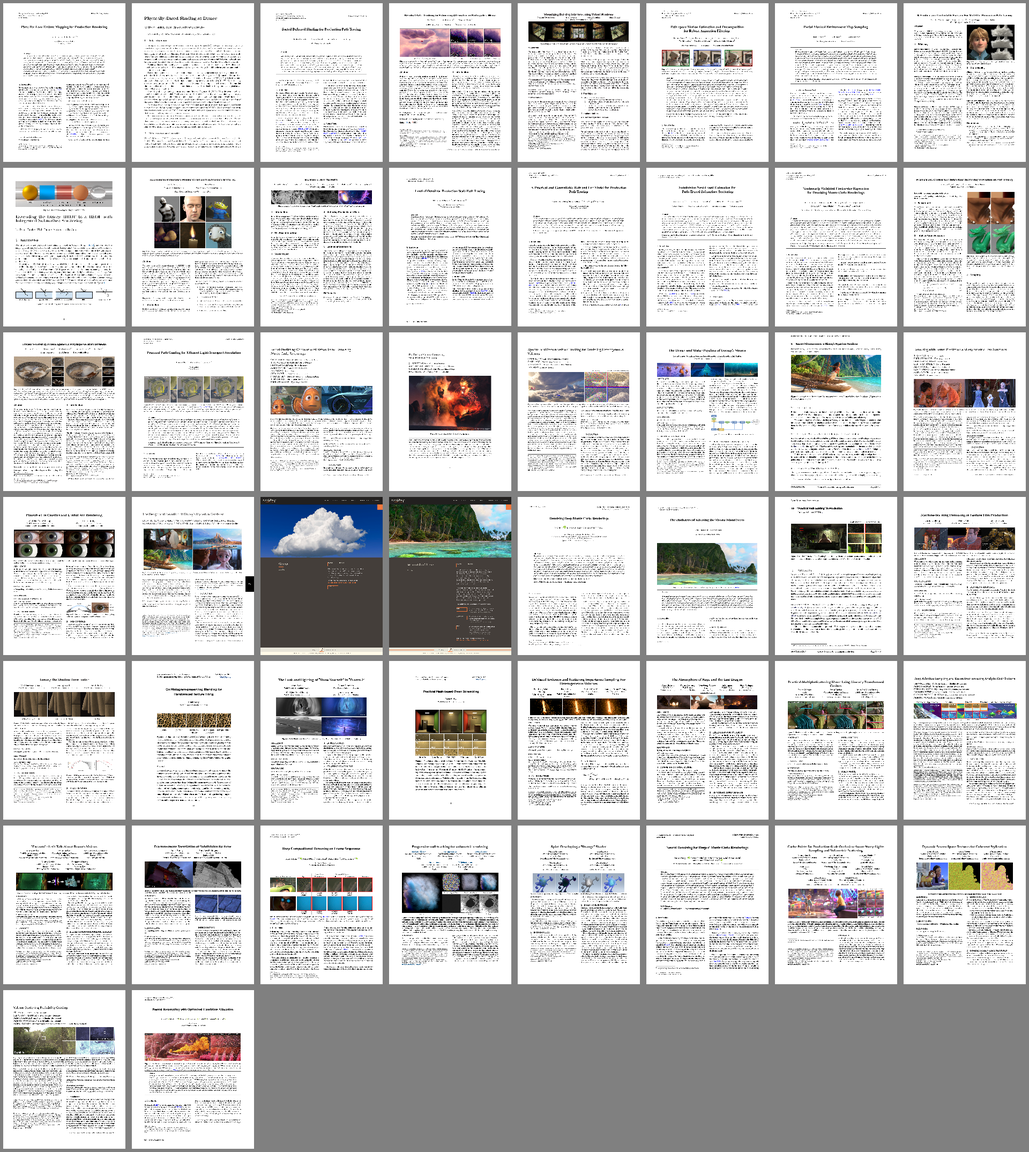
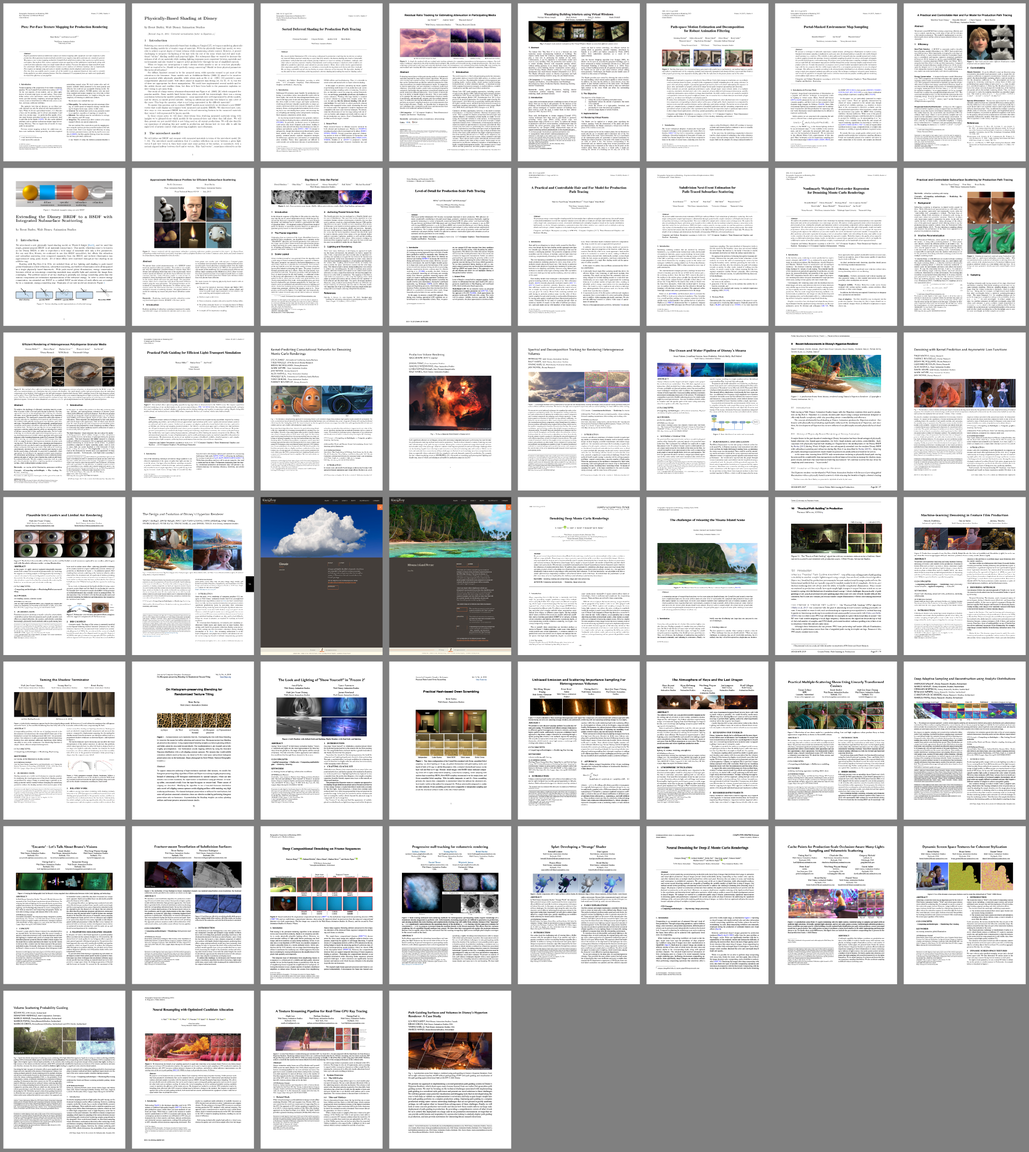
Update Hyperion Papers post with SIGGRAPH 2025 publications

diff --git a/_posts/2019-07-30-hyperion-papers.md b/_posts/2019-07-30-hyperion-papers.md
@@ -7,18 +7,18 @@ author: Yining Karl Li
 Every year at SIGGRAPH (and sometimes at other points in the year), members of the Hyperion team inevitably get asked if there is any publicly available information about [Disney's Hyperion Renderer](https://www.disneyanimation.com/technology/hyperion/).
 The answer is: yes, there is actually a lot of publicly available information!
 
-[![Figure 1: Previews of the first page of every Hyperion-related publication from Disney Animation, Disney Research Studios, and other research partners.]({{site.url}}/content/images/2019/Jul/FirstPagesv7_prev.png)]({{site.url}}/content/images/2019/Jul/FirstPagesv7.png)
+[![Figure 1: Previews of the first page of every Hyperion-related publication from Disney Animation, DisneyResearch\|Studios, and other research partners.]({{site.url}}/content/images/2019/Jul/FirstPagesv7_prev.png)]({{site.url}}/content/images/2019/Jul/FirstPagesv7.png)
 
 One amazing aspect of working at Walt Disney Animation Studios is the huge amount of support and encouragement we get from our managers and the wider studio for publishing and sharing our work with the wider academic world and industry.
 As part of this sharing, the Hyperion team has had the opportunity to publish a number of papers over the years detailing various interesting techniques used in the renderer.
 
-I think it's very important to mention here that another one of my favorite aspects of working on the Hyperion team is the deep collaboration we get to engage in with our sister rendering team at [Disney Research Studios](https://studios.disneyresearch.com) (formerly known as Disney Research Zürich).
-The vast majority of the Hyperion team's publications are joint works with Disney Research Studios, and I personally think it's fair to say that all of Hyperion's most interesting advanced features are just as much the result of research and work from Disney Research Studios as they are the result of our team's own work.
-Without a doubt, Hyperion, and by extension, our movies, would not be what they are today without Disney Research Studios.
+I think it's very important to mention here that another one of my favorite aspects of working on the Hyperion team is the deep collaboration we get to engage in with our sister rendering team at [DisneyResearch\|Studios](https://studios.disneyresearch.com) (formerly known as Disney Research Zürich).
+The vast majority of the Hyperion team's publications are joint works with DisneyResearch\|Studios, and I personally think it's fair to say that all of Hyperion's most interesting advanced features are just as much the result of research and work from DisneyResearch\|Studios as they are the result of our team's own work.
+Without a doubt, Hyperion, and by extension, our movies, would not be what they are today without DisneyResearch\|Studios.
 Of course, we also collaborate closely with our sister rendering teams at [Pixar Animation Studios](https://www.pixar.com) and [Industrial Light & Magic](https://www.ilm.com) as well, and there are numerous examples where collaboration between all of these teams has advanced the state of the art in rendering for the whole industry.
 
-So without further ado, below are all of the papers that the Hyperion team has published or worked on or had involvement with over the years, either by ourselves or with our counterparts at Disney Research Studios, Pixar, ILM, and other research groups.
-If you've ever been curious to learn more about Disney's Hyperion Renderer, here are 50 publications with a combined 529 pages of material!
+So without further ado, below are all of the papers that the Hyperion team has published or worked on or had involvement with over the years, either by ourselves or with our counterparts at DisneyResearch\|Studios, Pixar, ILM, and other research groups.
+If you've ever been curious to learn more about Disney's Hyperion Renderer, here are 52 publications with a combined 571 pages of material!
 For each paper, I'll link to a preprint version, link to the official publisher's version, and link any additional relevant resources for the paper.
 Please see publisher's version or project page links for any additional supplemental materials that go with each paper.
 I'll also give the citation information, give a brief description, list the teams involved, and note how the paper is relevant to Hyperion.
@@ -61,7 +61,7 @@ This post is meant to be a living document; I'll come back and update it down th
     * [Official Publisher's Version](https://doi.org/10.1145/2661229.2661292)
     * [Project Page](http://drz.disneyresearch.com/~jnovak/publications/RRTracking/)
 
-    Joint project between Disney Research Studios and Disney Animation. This paper described a pair of new, complementary techniques for evaluating transmittance in heterogeneous volumes. These two techniques made up the core of Hyperion's first and second generation volume rendering implementations, used from *Big Hero 6* up through *Moana*.
+    Joint project between DisneyResearch\|Studios and Disney Animation. This paper described a pair of new, complementary techniques for evaluating transmittance in heterogeneous volumes. These two techniques made up the core of Hyperion's first and second generation volume rendering implementations, used from *Big Hero 6* up through *Moana*.
 
 5. **Visualizing Building Interiors using Virtual Windows**
 
@@ -80,7 +80,7 @@ This post is meant to be a living document; I'll come back and update it down th
     * [Official Publisher's Version](http://doi.org/10.1111/cgf.12685)
     * [Project Page](https://cs.dartmouth.edu/~wjarosz/publications/zimmer15path.html)
 
-    Joint project between Disney Research Studios, ETH Zürich, and Disney Animation. This paper describes a denoising technique suitable for animated sequences. Not directly used in Hyperion's denoiser, but both inspired by and influential towards Hyperion's first generation denoiser.
+    Joint project between DisneyResearch\|Studios, ETH Zürich, and Disney Animation. This paper describes a denoising technique suitable for animated sequences. Not directly used in Hyperion's denoiser, but both inspired by and influential towards Hyperion's first generation denoiser.
 
 7. **Portal-Masked Environment Map Sampling**
 
@@ -90,7 +90,7 @@ This post is meant to be a living document; I'll come back and update it down th
     * [Official Publisher's Version](http://doi.org/10.1111/cgf.12674)
     * [Project Page](https://benedikt-bitterli.me/pmems.html)
 
-    Joint project between Disney Research Studios and Disney Animation. This paper describes an efficient method for importance sampling environment maps. This paper was actually derived from the technique Hyperion uses for importance sampling lights with IES profiles, which has been used on all films rendered using Hyperion.
+    Joint project between DisneyResearch\|Studios and Disney Animation. This paper describes an efficient method for importance sampling environment maps. This paper was actually derived from the technique Hyperion uses for importance sampling lights with IES profiles, which has been used on all films rendered using Hyperion.
 
 8. **A Practical and Controllable Hair and Fur Model for Production Path Tracing**
 
@@ -99,7 +99,7 @@ This post is meant to be a living document; I'll come back and update it down th
     * [Preprint Version](https://drive.google.com/open?id=19k6mnZMJXmgDSwy1Hcb7fFdMstALjTto)
     * [Official Publisher's Version](http://doi.org/10.1145/2775280.2792559)
 
-    Joint project between Disney Research Studios and Disney Animation. This short paper gives an overview of Hyperion's fur and hair model, originally developed for use on Zootopia. A full paper was published later with more details. This fur/hair model is Hyperion's fur/hair model today, used on every film beginning with *Zootopia* to present.
+    Joint project between DisneyResearch\|Studios and Disney Animation. This short paper gives an overview of Hyperion's fur and hair model, originally developed for use on Zootopia. A full paper was published later with more details. This fur/hair model is Hyperion's fur/hair model today, used on every film beginning with *Zootopia* to present.
 
 9. **Extending the Disney BRDF to a BSDF with Integrated Subsurface Scattering**
 
@@ -148,7 +148,7 @@ This post is meant to be a living document; I'll come back and update it down th
     * [Project Page](https://benedikt-bitterli.me/pchfm/)
     * [Implementation Guide by Matt Pharr](https://www.pbrt.org/hair.pdf)
 
-    Joint project between Disney Research Studios and Disney Animation. This paper gives an overview of Hyperion's fur and hair model, originally developed for use on *Zootopia*. This fur/hair model is Hyperion's fur/hair model today, used on every film beginning with *Zootopia* to present. This paper is now also implemented in the open source [PBRT v3](https://github.com/mmp/pbrt-v3/blob/master/src/materials/hair.h) renderer, and also serves as the basis of the hair/fur shader in Chaos Group's [V-Ray Next](https://www.chaosgroup.com/blog/v-ray-next-the-science-behind-the-new-hair-shader) renderer.
+    Joint project between DisneyResearch\|Studios and Disney Animation. This paper gives an overview of Hyperion's fur and hair model, originally developed for use on *Zootopia*. This fur/hair model is Hyperion's fur/hair model today, used on every film beginning with *Zootopia* to present. This paper is now also implemented in the open source [PBRT v3](https://github.com/mmp/pbrt-v3/blob/master/src/materials/hair.h) renderer, and also serves as the basis of the hair/fur shader in Chaos Group's [V-Ray Next](https://www.chaosgroup.com/blog/v-ray-next-the-science-behind-the-new-hair-shader) renderer.
 
 14. **Subdivision Next-Event Estimation for Path-Traced Subsurface Scattering**
 
@@ -158,7 +158,7 @@ This post is meant to be a living document; I'll come back and update it down th
     * [Official Publisher's Version](https://doi.org/10.2312/sre.20161214)
     * [Project Page](http://drz.disneyresearch.com/~jnovak/publications/SNEE/index.html)
 
-    Joint project between Disney Research Studios, University of Stuttgart, Dartmouth College, and Disney Animation. This paper describes a method for accelerating brute force path traced subsurface scattering; this technique was developed during early experimentation in making path traced subsurface scattering practical for production in Hyperion.
+    Joint project between DisneyResearch\|Studios, University of Stuttgart, Dartmouth College, and Disney Animation. This paper describes a method for accelerating brute force path traced subsurface scattering; this technique was developed during early experimentation in making path traced subsurface scattering practical for production in Hyperion.
 
 15. **Nonlinearly Weighted First-Order Regression for Denoising Monte Carlo Renderings**
 
@@ -168,7 +168,7 @@ This post is meant to be a living document; I'll come back and update it down th
     * [Official Publisher's Version](https://doi.org/10.1111/cgf.12954)
     * [Project Page](https://benedikt-bitterli.me/nfor/)
 
-    Joint project between Disney Research Studios, Edinburgh Napier University, Dartmouth College, and Disney Animation. This paper describes a high-quality, stable denoising technique based on a thorough analysis of previous technique. This technique was developed during a larger project to develop a state-of-the-art successor to Hyperion's first generation denoiser.
+    Joint project between DisneyResearch\|Studios, Edinburgh Napier University, Dartmouth College, and Disney Animation. This paper describes a high-quality, stable denoising technique based on a thorough analysis of previous technique. This technique was developed during a larger project to develop a state-of-the-art successor to Hyperion's first generation denoiser.
 
 16. **Practical and Controllable Subsurface Scattering for Production Path Tracing**
 
@@ -187,7 +187,7 @@ This post is meant to be a living document; I'll come back and update it down th
     * [Official Publisher's Version](https://doi.org/10.1145/2980179.2982429)
     * [Project Page](https://cs.dartmouth.edu/~wjarosz/publications/muller16efficient.html)
 
-    External project from Disney Research Studios, ETH Zürich, and Dartmouth College, inspired in part by production problems encountered at Disney Animation related to rendering things like sand, snow, etc. This technique uses shell transport functions to accelerate path traced rendering of massive assemblies of grains. [Thomas Müller](https://tom94.net) implemented an experimental version of this technique in Hyperion, along with an interesting extension for applying the shell transport theory to volume rendering.
+    External project from DisneyResearch\|Studios, ETH Zürich, and Dartmouth College, inspired in part by production problems encountered at Disney Animation related to rendering things like sand, snow, etc. This technique uses shell transport functions to accelerate path traced rendering of massive assemblies of grains. [Thomas Müller](https://tom94.net) implemented an experimental version of this technique in Hyperion, along with an interesting extension for applying the shell transport theory to volume rendering.
 
 18. **Practical Path Guiding for Efficient Light-Transport Simulation**
 
@@ -197,7 +197,7 @@ This post is meant to be a living document; I'll come back and update it down th
     * [Official Publisher's Version](https://doi.org/10.1111/cgf.13227)
     * [Project Page](http://drz.disneyresearch.com/~jnovak/publications/PathGuide/index.html)
 
-    External joint project between Disney Research Studios and ETH Zürich, inspired in part by challenges with handling complex light transport efficiently in Hyperion. Won the Best Paper Award at EGSR 2017! This paper describes a robust, unbiased technique for progressively learning complex indirect illumination in a scene during a render and intelligently guiding paths to better sample difficult indirect illumination effects. Implemented in Hyperion, along with a number of interesting improvements documented in a later paper. In use on *Frozen 2* and future films.
+    External joint project between DisneyResearch\|Studios and ETH Zürich, inspired in part by challenges with handling complex light transport efficiently in Hyperion. Won the Best Paper Award at EGSR 2017! This paper describes a robust, unbiased technique for progressively learning complex indirect illumination in a scene during a render and intelligently guiding paths to better sample difficult indirect illumination effects. Implemented in Hyperion, along with a number of interesting improvements documented in a later paper. In use on *Frozen 2* and future films.
 
 19. **Kernel-predicting Convolutional Networks for Denoising Monte Carlo Renderings**
 
@@ -207,7 +207,7 @@ This post is meant to be a living document; I'll come back and update it down th
     * [Official Publisher's Version](https://doi.org/10.1145/3072959.3073708)
     * [Project Page](http://drz.disneyresearch.com/~jnovak/publications/KPCN/index.html)
 
-    External joint project between University of California Santa Barbara, Disney Research Studios, ETH Zürich, and Pixar, with project support from Disney Animation. Developed as part of the larger effort to develop a successor to Hyperion's first generation denoiser. This paper describes a supervised learning approach for denoising filter kernels using deep convolutional neural networks. This technique is the basis of the modern Disney-Research-developed second generation deep-learning denoiser in use by the rendering teams at Pixar and ILM, and by the Hyperion iteam at Disney Animation.
+    External joint project between University of California Santa Barbara, DisneyResearch\|Studios, ETH Zürich, and Pixar, with project support from Disney Animation. Developed as part of the larger effort to develop a successor to Hyperion's first generation denoiser. This paper describes a supervised learning approach for denoising filter kernels using deep convolutional neural networks. This technique is the basis of the modern Disney-Research-developed second generation deep-learning denoiser in use by the rendering teams at Pixar and ILM, and by the Hyperion iteam at Disney Animation.
 
 20. **Production Volume Rendering**
 
@@ -227,7 +227,7 @@ This post is meant to be a living document; I'll come back and update it down th
     * [Official Publisher's Version](https://doi.org/10.1145/3072959.3073665)
     * [Project Page](https://www.yiningkarlli.com/projects/specdecomptracking.html)
 
-    Joint project between Disney Research Studios and Disney Animation. This paper describes two complementary new null-collision tracking techniques: decomposition tracking and spectral tracking. The paper also introduces to computer graphics an extended integral formulation of null-collision algorithms, originally developed in the field of reactor physics. These two techniques are the basis of Hyperion's modern third generation null-collision tracking based volume rendering system, in use beginning on *Olaf's Frozen Adventure* to present.
+    Joint project between DisneyResearch\|Studios and Disney Animation. This paper describes two complementary new null-collision tracking techniques: decomposition tracking and spectral tracking. The paper also introduces to computer graphics an extended integral formulation of null-collision algorithms, originally developed in the field of reactor physics. These two techniques are the basis of Hyperion's modern third generation null-collision tracking based volume rendering system, in use beginning on *Olaf's Frozen Adventure* to present.
 
 22. **The Ocean and Water Pipeline of Disney’s Moana**
 
@@ -256,7 +256,7 @@ This post is meant to be a living document; I'll come back and update it down th
     * [Official Publisher's Version](https://doi.org/10.1145/3197517.3201388)
     * [Project Page](http://drz.disneyresearch.com/~jnovak/publications/KPAL/index.html)
 
-    Joint project between Disney Research Studios, Pixar, and Disney Animation. This paper describes a variety of improvements and extensions made to the 2017 *Kernel-predicting Convolutional Networks for Denoising Monte Carlo Renderings* paper; collectively, these improvements comprise the modern Disney-Research-developed second generation deep-learning denoiser in use in production at Pixar, ILM, and Disney Animation. At Disney Animation, used experimentally on *Ralph Breaks the Internet* and in full production beginning with *Frozen 2*.
+    Joint project between DisneyResearch\|Studios, Pixar, and Disney Animation. This paper describes a variety of improvements and extensions made to the 2017 *Kernel-predicting Convolutional Networks for Denoising Monte Carlo Renderings* paper; collectively, these improvements comprise the modern Disney-Research-developed second generation deep-learning denoiser in use in production at Pixar, ILM, and Disney Animation. At Disney Animation, used experimentally on *Ralph Breaks the Internet* and in full production beginning with *Frozen 2*.
 
 25. **Plausible Iris Caustics and Limbal Arc Rendering**
 
@@ -304,7 +304,7 @@ This post is meant to be a living document; I'll come back and update it down th
     * [Official Publisher's Version](https://doi.org/10.1111/cgf.13533)
     * [Project Page](http://drz.disneyresearch.com/~jnovak/publications/DeepZDenoising/index.html)
 
-    Joint project between Disney Research Studios and Disney Animation. This paper presents a technique for denoising deep (meaning images with multiple depth bins per pixel) renders, for use with deep-compositing workflows. This technique was developed as part of general denoising research from Disney Research Studios and the Hyperion team.
+    Joint project between DisneyResearch\|Studios and Disney Animation. This paper presents a technique for denoising deep (meaning images with multiple depth bins per pixel) renders, for use with deep-compositing workflows. This technique was developed as part of general denoising research from DisneyResearch\|Studios and the Hyperion team.
 
 30. **The Challenges of Releasing the *Moana* Island Scene**
 
@@ -323,7 +323,7 @@ This post is meant to be a living document; I'll come back and update it down th
     * [Official Publisher's Version](https://doi.org/10.1145/3305366.3328091)
     * [Path Guiding in Production SIGGRAPH 2019 Course](https://jo.dreggn.org/path-tracing-in-production/2019/index.html)
 
-    Joint project between Disney Research Studios and Disney Animation. This paper presents a number of improvements and extensions made to *Practical Path Guiding* developed by in Hyperion by [Thomas Müller](https://tom94.net) and the Hyperion team. In use in production on *Frozen 2*.
+    Joint project between DisneyResearch\|Studios and Disney Animation. This paper presents a number of improvements and extensions made to *Practical Path Guiding* developed by in Hyperion by [Thomas Müller](https://tom94.net) and the Hyperion team. In use in production on *Frozen 2*.
 
 32. **Machine-Learning Denoising in Feature Film Production**
 
@@ -408,7 +408,7 @@ This post is meant to be a living document; I'll come back and update it down th
     * [Official Publisher's Version](https://doi.org/10.1145/3550454.3555515)
     * [Project Page](https://studios.disneyresearch.com/2022/11/30/deep-adaptive-sampling-and-reconstruction-using-analytic-distributions/)
 
-    External project from Disney Research Studios, with project support from Disney Animation. This paper extends Disney's deep learning denoising technology to also drive adaptive sampling during the rendering process. Part of a larger joint research project between Disney Research Studios, Disney Animation, Pixar, and Industrial Light & Magic on denoising techniques.
+    External project from DisneyResearch\|Studios, with project support from Disney Animation. This paper extends Disney's deep learning denoising technology to also drive adaptive sampling during the rendering process. Part of a larger joint research project between DisneyResearch\|Studios, Disney Animation, Pixar, and Industrial Light & Magic on denoising techniques.
 
 41. **"Encanto" - Let's Talk About Bruno's Visions**
 
@@ -437,7 +437,7 @@ This post is meant to be a living document; I'll come back and update it down th
     * [Official Publisher's Version](https://doi.org/10.2312/sr.20231142)
     * [Project Page](https://studios.disneyresearch.com/2023/06/26/deep-compositional-denoising-on-frame-sequence)
 
-    External project from Disney Research Studios, with project support from Disney Animation. This paper unifies previously separate approaches used in Disney's deep learning denoising system for single-frame compositional denoising and multi-frame non-compositional denoising. Part of a larger joint research project between Disney Research Studios, Disney Animation, Pixar, and Industrial Light & Magic on denoising techniques.
+    External project from DisneyResearch\|Studios, with project support from Disney Animation. This paper unifies previously separate approaches used in Disney's deep learning denoising system for single-frame compositional denoising and multi-frame non-compositional denoising. Part of a larger joint research project between DisneyResearch\|Studios, Disney Animation, Pixar, and Industrial Light & Magic on denoising techniques.
 
 44. **Progressive Null-Tracking for Volumetric Rendering**
 
@@ -466,7 +466,7 @@ This post is meant to be a living document; I'll come back and update it down th
     * [Official Publisher's Version](http://doi.org/10.1111/cgf.15050)
     * [Project Page](https://studios.disneyresearch.com/2024/06/18/neural-denoising-for-deep-z-monte-carlo-renderings/)
 
-    External joint project between Disney Research Studios and Pixar, with project support from Disney Animation. This paper describes an extension to Disney's deep learning denoising technology to add support for deep-Z images and deep compositing workflows. Part of a larger joint research project between Disney Research Studios, Disney Animation, Pixar, and Industrial Light & Magic on denoising techniques.
+    External joint project between DisneyResearch\|Studios and Pixar, with project support from Disney Animation. This paper describes an extension to Disney's deep learning denoising technology to add support for deep-Z images and deep compositing workflows. Part of a larger joint research project between DisneyResearch\|Studios, Disney Animation, Pixar, and Industrial Light & Magic on denoising techniques.
 
 47. **Cache Points for Production-Scale Occlusion-Aware Many-Lights Sampling and Volumetric Scattering**
 
@@ -495,7 +495,7 @@ This post is meant to be a living document; I'll come back and update it down th
     * [Official Publisher's Version](https://doi.org/10.1145/3687982)
     * [Project Page](https://kehanxuuu.github.io/vspg-website/)
 
-    External joint project between Disney Research Studios and Intel, with project support from Disney Animation. This paper describes an improvement to volume path guiding that enables direct control over volume scattering probability. Part of a larger joint research project between Disney Research Studios, Disney Animation, Pixar, and Industrial Light & Magic on path guiding techniques.
+    External joint project between DisneyResearch\|Studios and Intel, with project support from Disney Animation. This paper describes an improvement to volume path guiding that enables direct control over volume scattering probability. Part of a larger joint research project between DisneyResearch\|Studios, Disney Animation, Pixar, and Industrial Light & Magic on path guiding techniques.
 
 50. **Neural Resampling with Optimized Candidate Allocation**
 
@@ -504,7 +504,28 @@ This post is meant to be a living document; I'll come back and update it down th
     * [Preprint Version](https://drive.google.com/file/d/1VFTk7uVC1jZYV7OpqelQ-b5rv6pIdnFw/view?usp=share_link)
     * [Official Publisher's Version](https://doi.org/10.2312/sr.20251181)
 
-    Joint project between Disney Research Studios and Disney Animation. This paper presents an experimental implementation of GPU-based neural learning system inside of Hyperion's CPU-based architecture, suitable for use as both a path guiding system and for radiance caching. Part of a larger joint research project between Disney Research Studios, Disney Animation, Pixar, and Industrial Light & Magic on path guiding techniques.
+    Joint project between DisneyResearch\|Studios and Disney Animation. This paper presents an experimental implementation of GPU-based neural learning system inside of Hyperion's CPU-based architecture, suitable for use as both a path guiding system and for radiance caching. Part of a larger joint research project between DisneyResearch\|Studios, Disney Animation, Pixar, and Industrial Light & Magic on path guiding techniques.
+
+51. **A Texture Streaming Pipeline for Real-Time GPU Ray Tracing**
+
+    [Mark Lee](https://rgba32.blogspot.com/), [Nathan Zeichner](https://www.linkedin.com/in/nathan-zeichner/), and [Yining Karl Li](https://www.yiningkarlli.com). A Texture Streaming Pipeline for Real-Time GPU Ray. In *ACM SIGGRAPH 2025 Talks*, August 2025.
+
+    * [Preprint Version](https://drive.google.com/file/d/1cZm6JJG-RMBc_Muf1TnNJH27AgP39mOP/view?usp=share_link)
+    * [Official Publisher's Version](https://doi.org/10.1145/3721239.3734098)
+    * [Project Page](https://www.yiningkarlli.com/projects/gpuptex.html)
+
+    Internal project from Disney Animation. This paper describes our implementation of a streaming textures system on the GPU for Ptex, which is in use in our in-house GPU path tracing previsualization renderer.
+
+52. **Path Guiding Surfaces and Volumes in Disney's Hyperion Renderer: A Case Study**
+
+    [Lea Reichardt](https://www.linkedin.com/in/lea-reichardt-04a20113b/), [Brian Green](https://www.linkedin.com/in/brian-green-9b54956//), [Yining Karl Li](https://www.yiningkarlli.com), and [Marco Manzi](https://studios.disneyresearch.com/people/marco-manzi/). Path Guiding Surfaces and Volumes in Disney's Hyperion Renderer: A Case Study. In *ACM SIGGRAPH 2025 Course Notes: Path Guiding in Production and Recent Advancements*, August 2025.
+
+    * [Preprint Version (Hyperion Chapter)](https://drive.google.com/file/d/1MW-dfaQbvIs5er06L5kZ8zFTuYmF0fze/view?usp=share_link)
+    * [Preprint Version (Full Course Notes)](https://drive.google.com/file/d/1wCXpzjy6jZnWQcyQKIrKhh0_NY9Fv6tF/view?usp=share_link)
+    * [Official Publisher's Version](https://doi.org/10.1145/3721241.3733994)
+    * [Path Guiding in Production and Recent Advancements SIGGRAPH 2025 Course](https://sherholz.github.io/siggraph2025-path-guiding-course/)
+
+    Joint project from DisneyResearch\|Studios and Disney Animation. This paper describes how we've implemented Hyperion's second-generation path guiding system, and what we've learned from bridging cutting edge research into production usage.
 
 [![Figure 2: Hyperion logo, modeled by Disney Animation artist Chuck Tappan and rendered in Disney's Hyperion Renderer.]({{site.url}}/content/images/2019/Jul/hyperion_logo.png)]({{site.url}}/content/images/2019/Jul/hyperion_logo.png)
 
@@ -527,7 +548,7 @@ The major journals to check are [ACM Transactions on Graphics (TOG)](https://tog
 A complete listing of the contents for all of these conferences every year, along with links to preprints, is [compiled by Ke-Sen Huang](http://kesen.realtimerendering.com).
 
 A large number of people have contributed directly to Hyperion's development since the beginning of the project, in a variety of capacities ranging from core developers to TDs and support staff and all the way to notable interns. In no particular order, including both present and past: Daniel Teece, Brent Burley, David Adler, Yining Karl Li, Mark Lee, Charlotte Zhu, Brian Green, Andrew Bauer, Lea Reichardt, Mackenzie Thompson, Wei-Feng Wayne Huang, Matt Jen-Yuan Chen, Joe Schutte, Andrew Gartner, Jennifer Yu, Peter Kutz, Ralf Habel, Patrick Kelly, Gregory Nichols, Andrew Selle, Christian Eisenacher, Jan Novák, Ben Spencer, Doug Lesan, Lisa Young, Tami Valdez, Andrew Fisher, Noah Kagan, Benedikt Bitterli, Thomas Müller, Tizian Zeltner, Zackary Misso, Magdalena Martinek, Mathijs Molenaar, Laura Lediav, Guillaume Loubet, David Koerner, Simon Kallweit, Gabor Liktor, Ulrich Muller, Norman Moses Joseph, Stella Cheng, Marc Cooper, Tal Lancaster, and Serge Sretschinsky.
-Over the years, our closest research partners at Disney Research Studios, Pixar Animation Studios, Industrial Light & Magic, and elsewhere have included (in no particular order): Marios Papas, Marco Manzi, Tiziano Portenier, Alexander Rath, Rajesh Sharma, Rasmus Tamstorf, Jan Novák, Gerhard Roethlin, Per Christensen, Julian Fong, Mark Meyer, André Mazzone, Wojciech Jarosz, Fabrice Rouselle, Christophe Hery, Ryusuke Villemin, and Magnus Wrenninge.
+Over the years, our closest research partners at DisneyResearch\|Studios, Pixar Animation Studios, Industrial Light & Magic, and elsewhere have included (in no particular order): Marios Papas, Marco Manzi, Tiziano Portenier, Alexander Rath, Rajesh Sharma, Rasmus Tamstorf, Jan Novák, Gerhard Roethlin, Per Christensen, Julian Fong, Mark Meyer, André Mazzone, Wojciech Jarosz, Fabrice Rouselle, Christophe Hery, Ryusuke Villemin, and Magnus Wrenninge.
 Invaluable support from studio leadership over the years has been provided by (again, in no particular order): Nick Cannon, Munira Tayabji, Rebecca Bever, Bettina Martin, Laura Franek, Collin Larkins, Golriz Fanai, Rajesh Sharma, Chuck Tappan, Sean Jenkins, Darren Robinson, Alex Nijmeh, Hank Driskill, Kyle Odermatt, Adolph Lusinsky, Ernie Petti, Kelsey Hurley, Shweta Viswanathan, Tad Miller, Mark Hammel, Mohit Kallianpur, Brian Leach, Daniel Rice, Amol Sathe, Alessandro Jacomini, Josh Staub, Steve Goldberg, Scott Kersavage, Andy Hendrickson, Dan Candela, Ed Catmull, and many others.
 Of course, beyond this enormous list, there is an even more enormous list of countless artists, technical directors, production supervisors, and other technology development teams at Disney Animation who motivated Hyperion, participated in its development, and contributed to its success.
 If anything in this post has caught your interest, keep an eye out for open position listings on [DisneyAnimation.com](https://www.disneyanimation.com/careers); maybe these lists can one day include you!

diff --git a/_posts/2025-08-12-path-guiding-in-production.md b/_posts/2025-08-12-path-guiding-in-production.md
@@ -6,7 +6,7 @@ author: Yining Karl Li
 ---
 
 This year at SIGGRAPH 2025, Sebastian Herholz from Intel organized a followup to 2019's Path Guiding in Production Course [[Vorba et al. 2019]](https://cgg.mff.cuni.cz/~jaroslav/papers/2019-path-guiding-course/index.htm).
-[This year's edition of the course](https://sherholz.github.io/siggraph2025-path-guiding-course/) includes presentations by Sebastian on Intel's [Open Path Guiding library](https://github.com/RenderKit/openpgl) and on general advice for integrating path guiding techniques into a unidirectional path tracing renderer, a presentation by Martin Šik on how Chaos's Corona Renderer uses advanced photon guiding techniques in their caustics solver, and a presentation by Lea Reichardt and Marco Manzi on the work Disney Animation and Disney Research\|Studios have put into Hyperion's second-generation path guiding system for surfaces and volumes.
+[This year's edition of the course](https://sherholz.github.io/siggraph2025-path-guiding-course/) includes presentations by Sebastian on Intel's [Open Path Guiding library](https://github.com/RenderKit/openpgl) and on general advice for integrating path guiding techniques into a unidirectional path tracing renderer, a presentation by Martin Šik on how Chaos's Corona Renderer uses advanced photon guiding techniques in their caustics solver, and a presentation by Lea Reichardt and Marco Manzi on the work Disney Animation and DisneyResearch\|Studios have put into Hyperion's second-generation path guiding system for surfaces and volumes.
 I strongly encourage checking out the whole course, but wanted to highlight Lea and Marco's presentation in particular; they put a ton of care and effort into what I think is a really cool and unique look into what it takes to bridge cutting edge research into a production rendering environment.
 The course notes were written by the four presenters above, in addition to Brian Green and myself from the Hyperion development team.
 
@@ -24,17 +24,17 @@ The paper and related materials can be found at:
 * [Official Course Website](https://sherholz.github.io/siggraph2025-path-guiding-course/)
 * [Official Print Version (ACM Library)](https://doi.org/10.1145/3721241.3733994)
 
-All of the technical details are in the paper and presentation (and with 80 pages of course notes, of which 36 pages is the Disney Animation / Disney Research\|Studios chapter, there are technical details for days!), so this blog post is just some personal thoughts on this project.
+All of the technical details are in the paper and presentation (and with 80 pages of course notes, of which 36 pages is the Disney Animation / DisneyResearch\|Studios chapter, there are technical details for days!), so this blog post is just some personal thoughts on this project.
 
 As mentioned in the abstract, what we're presenting in this course is our second-generation path guiding system.
-Disney Animation and Disney Research\|Studios have a long history of working on path guiding; one of landmark papers in modern path guiding was Practical Path Guiding (PPG) [[Müller et al. 2017]](https://doi.org/10.1111/cgf.14428), which came out of Disney Research\|Studios, and Hyperion was one of the first production renderers to implement PPG [[Müller 2019]](https://cgg.mff.cuni.cz/~jaroslav/papers/2019-path-guiding-course/index.htm).
+Disney Animation and DisneyResearch\|Studios have a long history of working on path guiding; one of landmark papers in modern path guiding was Practical Path Guiding (PPG) [[Müller et al. 2017]](https://doi.org/10.1111/cgf.14428), which came out of DisneyResearch\|Studios, and Hyperion was one of the first production renderers to implement PPG [[Müller 2019]](https://cgg.mff.cuni.cz/~jaroslav/papers/2019-path-guiding-course/index.htm).
 We've used path guiding on a limited number of shots on most movies starting with Frozen 2, but as the course notes go into more detail on, for a variety of reasons our first generation path guiding system never gained widespread adoption.
 Several years ago, based on a research proposal drafted by Wei-Feng Wayne Huang while he was still at Disney Animation, we kicked off of a large scale project to further improve path guiding and bring it to a point where we could get widespread adoption and provide significant benefits to production.
-This project is a collaboration between Disney Research\|Studios, Disney Animation, Pixar, ILM, and Sebastian Herholz from Intel; the second-generation path guiding system in Hyperion is a product of this project.
+This project is a collaboration between DisneyResearch\|Studios, Disney Animation, Pixar, ILM, and Sebastian Herholz from Intel; the second-generation path guiding system in Hyperion is a product of this project.
 
-Personally, this project is one of my all-time favorite projects that I've gotten to be a part of, and I think this project really highlights what an incredible research organization Disney Research\|Studios is.
-Getting to collaborate with rendering colleagues from across multiple labs and studios is always fun and interesting, and I think for projects like this, the huge amount of production and engineering expertise that the various Disney studios bring combined with the world-class research talent at Disney Research\|Studios and ETH Zürich (which Disney Research\|Studios is academically partnered with) gives unique perspectives and capabilities for tackling difficult problems.
-On top of the production experience from three cutting edge studios, Disney Research\|Studios also has deep access to both source code and the engineering teams for not one but _two_ extremely mature production rendering systems, Hyperion [[Burley et al. 2018]](https://doi.org/10.1145/3182159) and RenderMan [[Christensen et al. 2018]](https://doi.org/10.1145/3182162); I don't think there's anything else quite like this setup in our industry, and I think it's insanely cool that we get to work together like this!
+Personally, this project is one of my all-time favorite projects that I've gotten to be a part of, and I think this project really highlights what an incredible research organization DisneyResearch\|Studios is.
+Getting to collaborate with rendering colleagues from across multiple labs and studios is always fun and interesting, and I think for projects like this, the huge amount of production and engineering expertise that the various Disney studios bring combined with the world-class research talent at DisneyResearch\|Studios and ETH Zürich (which DisneyResearch\|Studios is academically partnered with) gives unique perspectives and capabilities for tackling difficult problems.
+On top of the production experience from three cutting edge studios, DisneyResearch\|Studios also has deep access to both source code and the engineering teams for not one but _two_ extremely mature production rendering systems, Hyperion [[Burley et al. 2018]](https://doi.org/10.1145/3182159) and RenderMan [[Christensen et al. 2018]](https://doi.org/10.1145/3182162); I don't think there's anything else quite like this setup in our industry, and I think it's insanely cool that we get to work together like this!
 
 One of the largest focus points for our second-generation path guiding efforts was to find a way to guide jointly for both surfaces _and_ volumes; our first-generation PPG based system only supported surfaces.
 Over the past decade our artists have made heavier and heavier use of volumetrics in each successive project, to the point where now almost every shot in our movies contains some form of volumetrics, ranging from subtly atmospherics all the way to enormously complex setups like the storm battle at the end of Moana 2.
@@ -56,7 +56,7 @@ Solving these engineering and user experience challenges in order to build a pra
 What we're presenting in the course is really a snapshot of where we were at the beginning of the year; the material in the course represents enormous progress towards a robust practical system, but this project is very much still in progress and we've made additional advancements since we finished writing the course materials; hopefully we can present even more next year!
 
 My favorite part of working on these projects is always getting to work with and learn from really cool people.
-On the Disney Research side, this project has been led by Marco Manzi and Marios Papas, with significant contributions by Alexander Rath, Tiziano Portenier, and engineering support from Lento Manickathan.
+On the DisneyResearch\|Studios side, this project has been led by Marco Manzi and Marios Papas, with significant contributions by Alexander Rath, Tiziano Portenier, and engineering support from Lento Manickathan.
 On the Disney Animation side, Lea Reichardt, Brian Green, and I have been working closely with Marco to build out the production system.
 Of course we have a long list of artists and TDs to thank on the production side for supporting and trying out this project; a full list of acknowledgements can be found on my project page and in the course notes.
 Pushing path guiding forward in research and production together has been the type of project where everyone on the project learns a lot from each other, the studios learn a lot and gain incredibly powerful and useful new tools, and the wider research community benefits as a whole.
